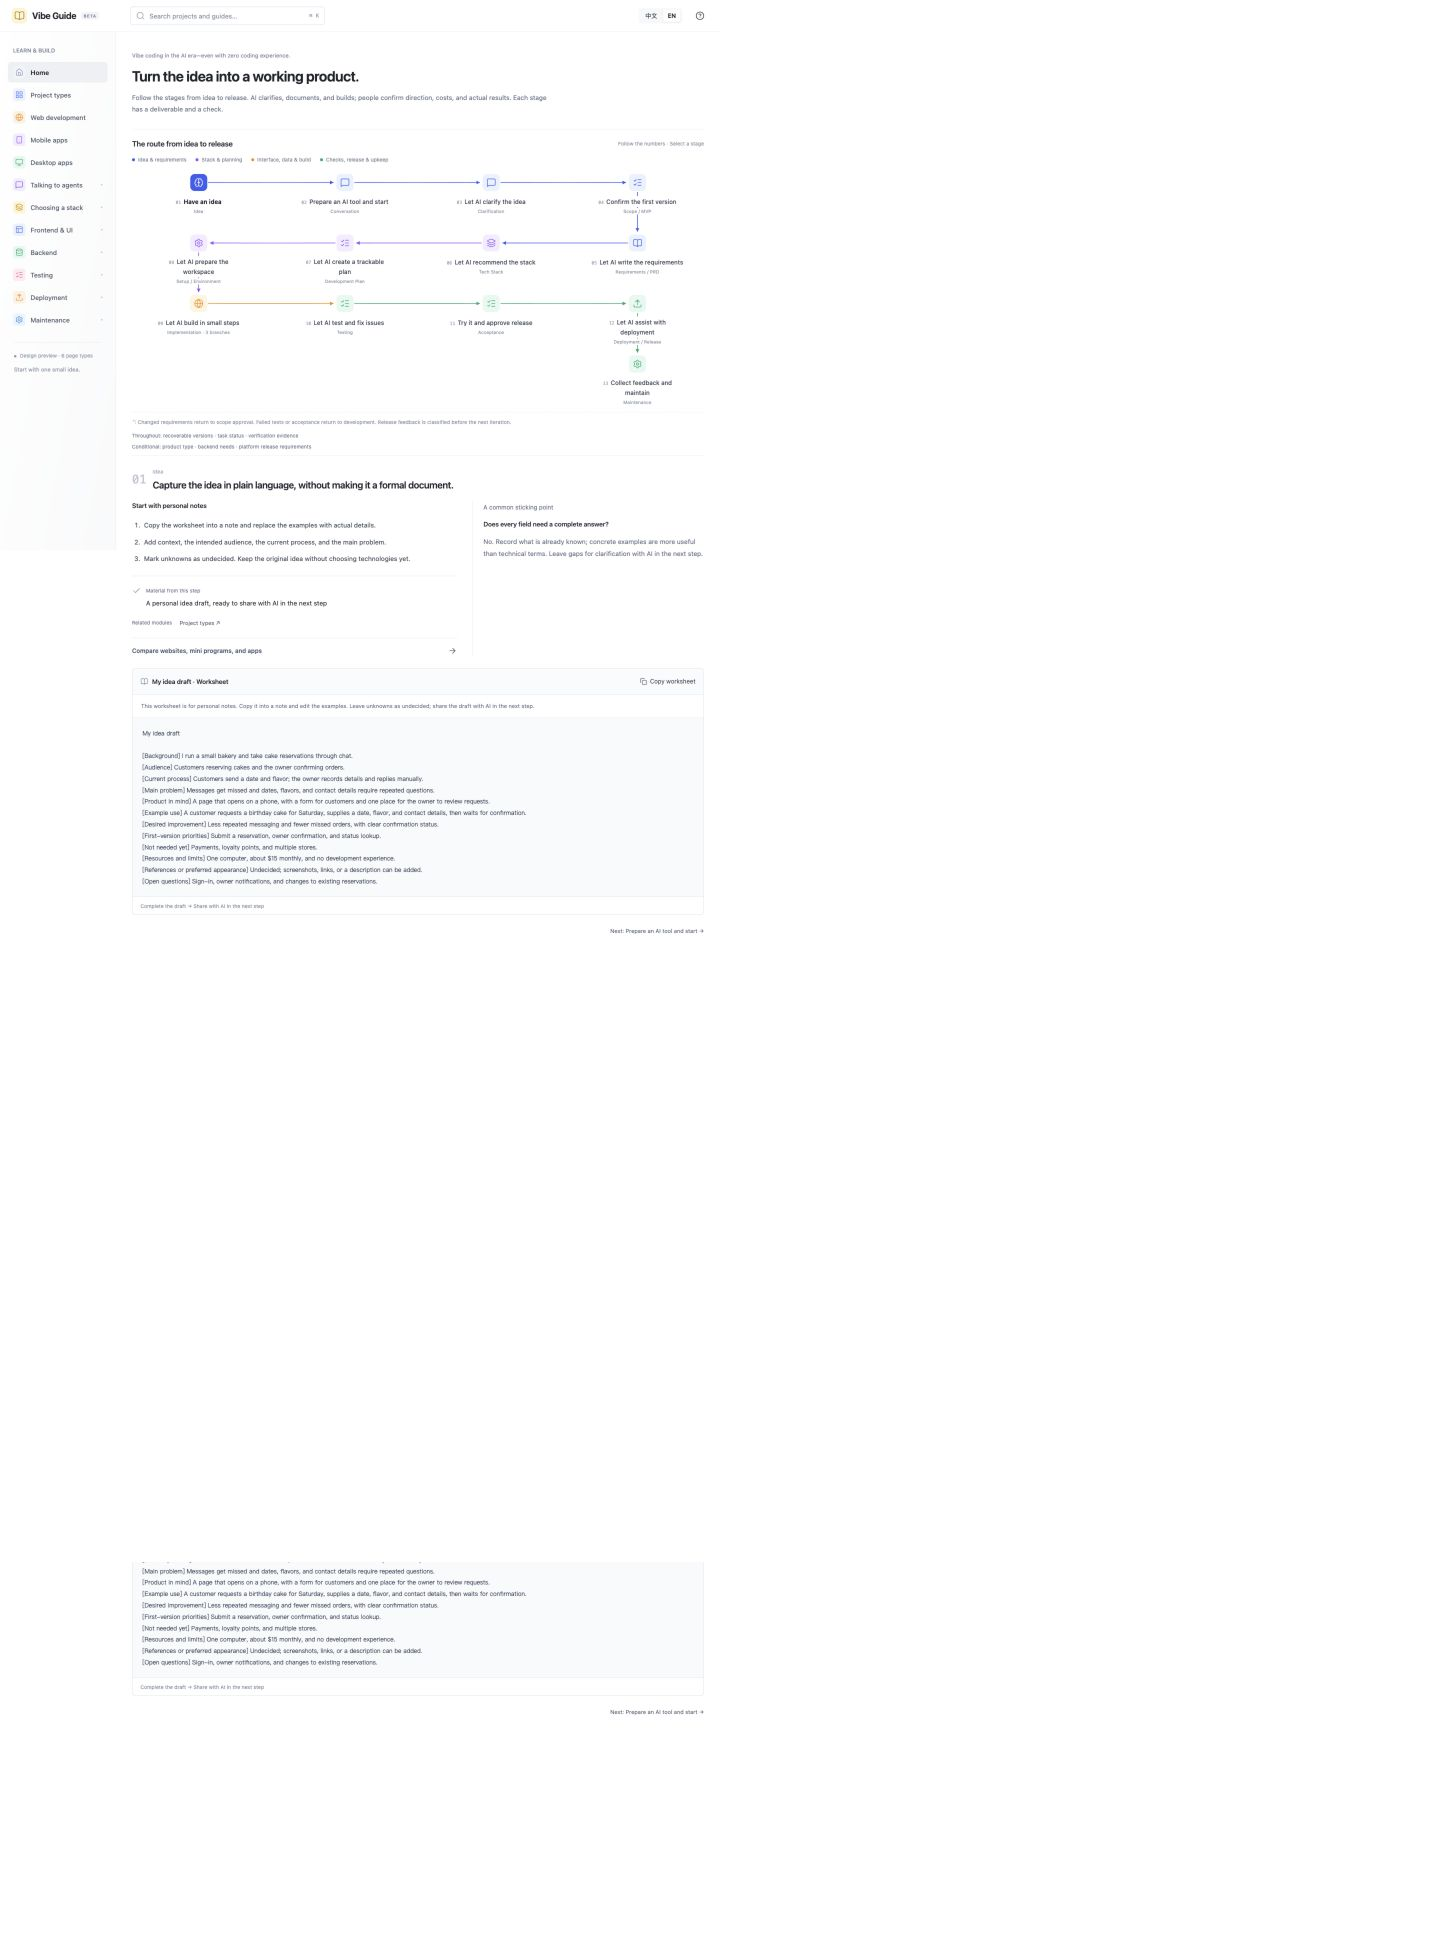
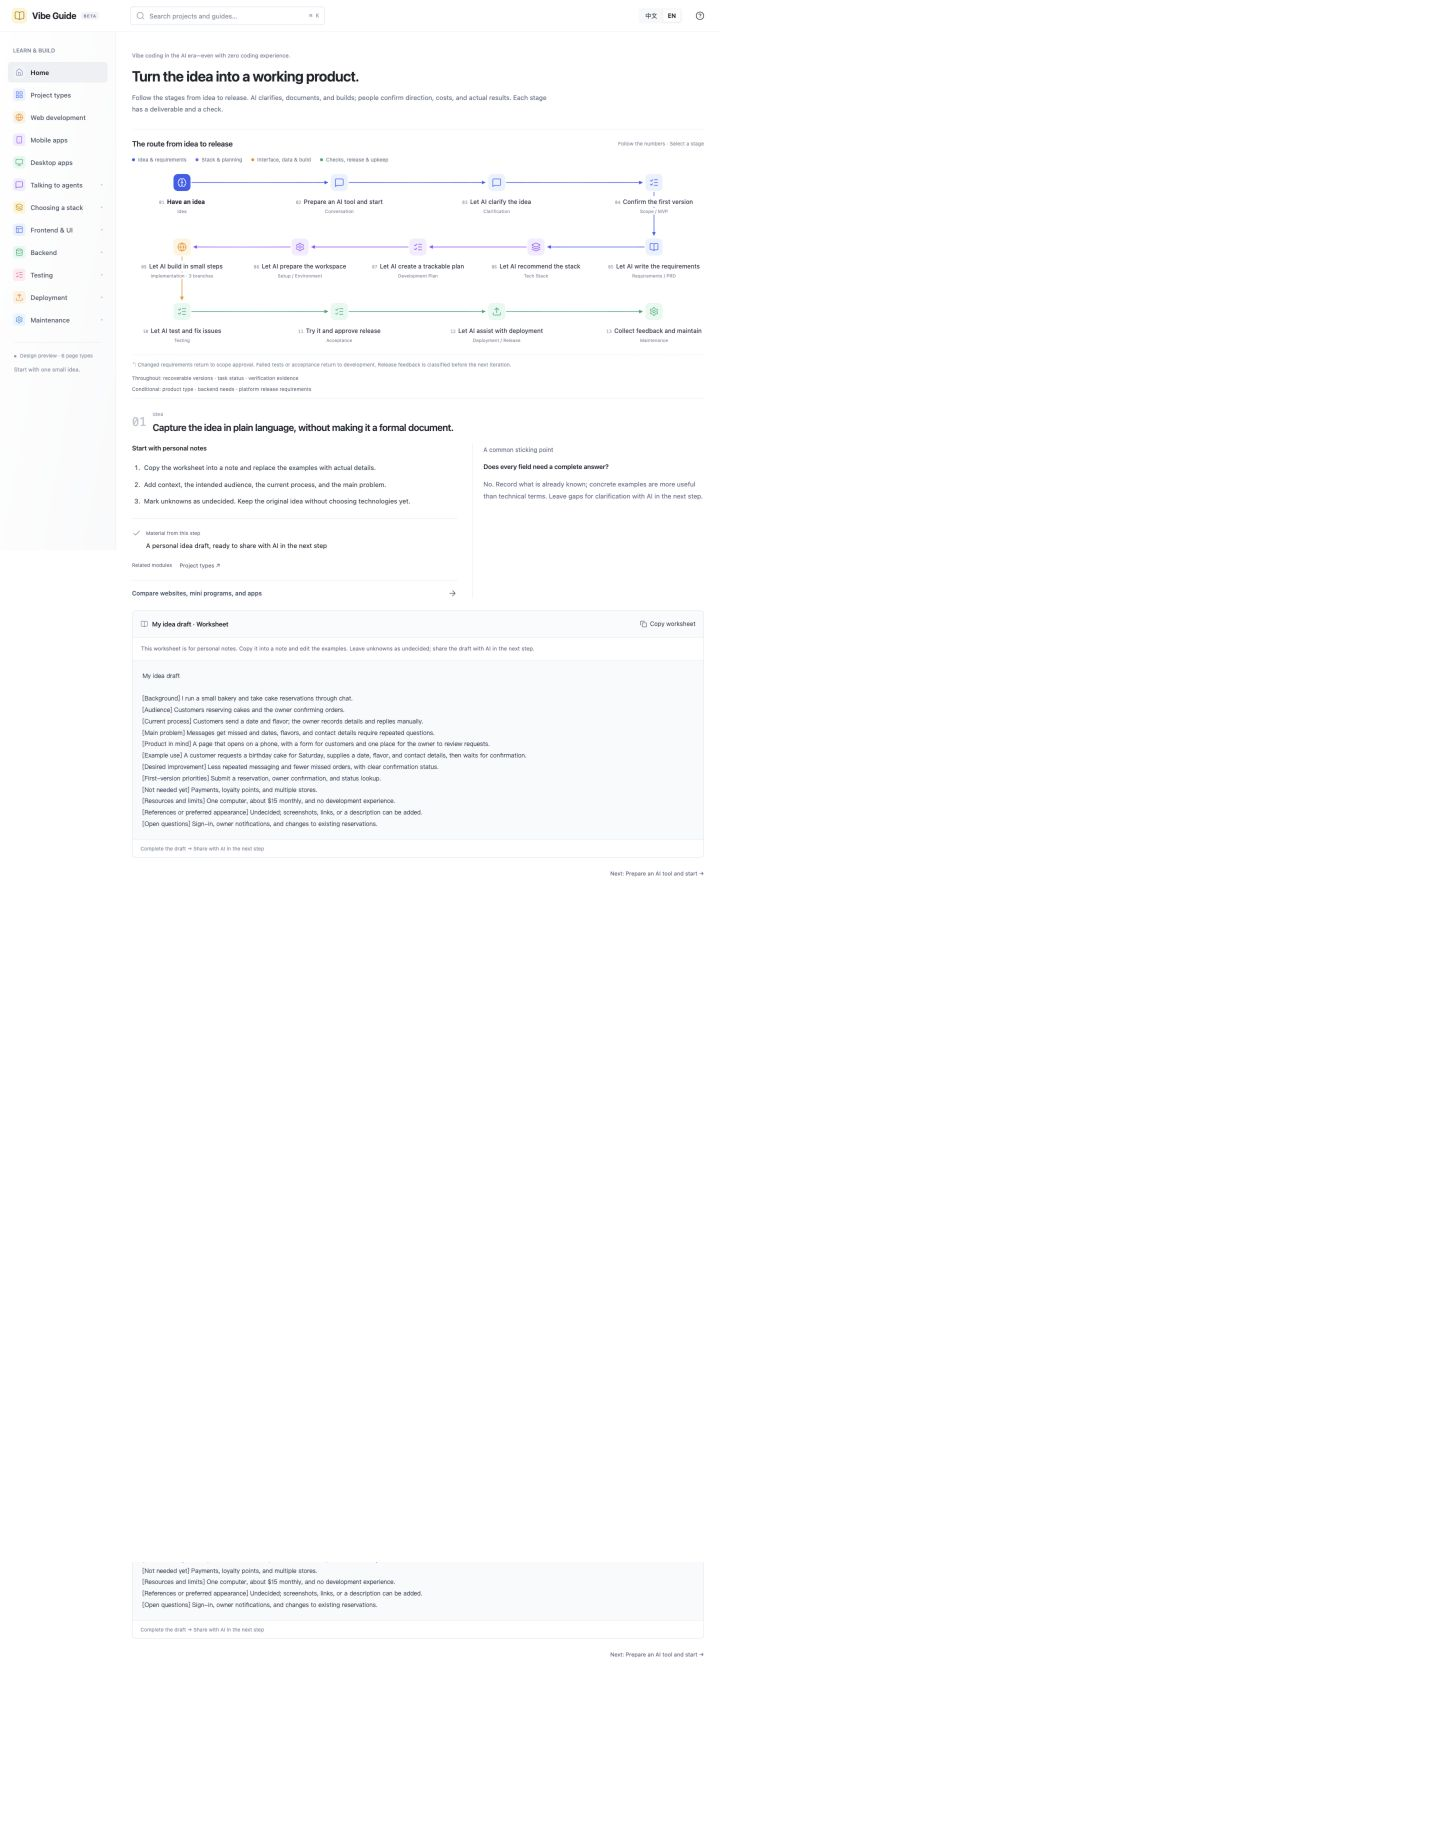
style: balance journey into complete responsive rows

diff --git a/src/styles/refinement.css b/src/styles/refinement.css
@@ -8,3 +8,5 @@
 .prompt-template{margin-top:25px;border:1px solid #e3e7ed;border-radius:7px;overflow:hidden;background:#fff}.template-toolbar{display:flex;gap:16px;align-items:center;justify-content:space-between;padding:12px 16px;border-bottom:1px solid #e8ebef;background:#fafbfc}.template-toolbar h3{display:flex;align-items:center;gap:8px;font-size:13px;font-weight:550;line-height:1.6}.template-toolbar h3 svg{color:#71809a}.template-copy{display:flex;align-items:center;gap:6px;white-space:nowrap;font-size:12px;color:#374151;padding:4px 0}.template-copy:hover{color:#2563eb}.template-instruction{font-size:11px;line-height:1.9;color:#667085;margin:0;padding:12px 17px;border-bottom:1px solid #edf0f3}.prompt-template pre{margin:0;padding:19px 20px;max-height:480px;overflow:auto;background:#f8fafc;white-space:pre-wrap;overflow-wrap:anywhere;tab-size:2;line-height:1.9;font-size:12px;color:#344054;font-family:ui-monospace,SFMono-Regular,Consolas,"PingFang SC","Microsoft YaHei",monospace}.prompt-template code{font:inherit}.template-footer{display:flex;align-items:center;justify-content:space-between;gap:12px;padding:9px 16px;border-top:1px solid #e8ebef;color:#8590a0;font-size:10px;min-height:36px}.template-footer [role=status]{color:#13845d}.prompt-template pre:focus-visible{outline:2px solid #758caf;outline-offset:-2px}@media(max-width:639px){.template-toolbar{align-items:flex-start;gap:9px;padding:12px}.template-toolbar h3{font-size:12px}.template-copy{font-size:11px}.prompt-template pre{padding:15px 12px;max-height:420px;font-size:12px}.template-instruction{padding:10px 12px}.template-footer{align-items:flex-start;flex-direction:column;gap:3px;padding:9px 12px}}
 /* Main route and build branches have independent, data-driven ordering. */
 .connected-route .route-nodes{grid-template-rows:repeat(var(--rows),103px)}.connected-route .route-nodes>li:nth-child(n){grid-row:var(--r)!important;grid-column:var(--c)!important}.route-rules{display:flex;flex-direction:column;gap:5px;margin:10px 0 0;font-size:10px;color:#667085}.build-branches{display:flex;gap:10px 19px;flex-wrap:wrap;margin:0 0 24px;padding:13px 0;border-block:1px solid #e8ebef}.build-branches a{font-size:12px;color:#667085}.build-branches a[aria-current]{color:#2563eb;font-weight:600;text-decoration:underline;text-underline-offset:5px}.build-branches p{flex-basis:100%;font-size:11px;color:#8590a0;margin:2px 0}.stage-pagination{flex-wrap:wrap}@media(max-width:639px){.connected-route .route-nodes{grid-template-rows:repeat(var(--mobile-rows),118px)}.connected-route .route-nodes>li:nth-child(n){grid-row:var(--mr)!important;grid-column:var(--mc)!important}.route-rules{font-size:10px;line-height:1.8}}
+/* Balance every desktop row; spacing is geometric, not a time/token estimate. */
+.connected-route .route-nodes{display:block;position:relative;margin:0;min-height:100px}.connected-route .route-nodes>li:nth-child(n){position:absolute;height:auto;grid-area:auto!important}.connected-route .route-node{height:auto;min-height:85px}.connected-route .route-node strong{max-width:100%;box-sizing:border-box}.connected-route .route-node small{max-width:100%}.connected-route.route-vertical .route-node{display:grid;grid-template-columns:34px minmax(0,1fr);column-gap:15px;text-align:left;min-height:54px;align-content:start}.connected-route.route-vertical .node-index{grid-column:1;grid-row:1/3;margin:0}.connected-route.route-vertical .route-node strong{grid-column:2;grid-row:1;font-size:12px;justify-self:start;padding:0;align-self:start}.connected-route.route-vertical .route-node small{grid-column:2;grid-row:2;justify-self:start;margin:4px 0 0;font-size:10px;padding:0}

diff --git a/docs/preview-review.md b/docs/preview-review.md
@@ -68,3 +68,7 @@
 补齐工具准备、范围确认、环境准备与人工验收。主图按数据计算连线和行列，不再假定固定十二节点。开发节点下包含界面、数据权限和完整流程，保留旧分支锚点。
 
 验证：类型检查无错误/警告，构建通过；内部链接、禁用文案、板块覆盖、模板结构、分支父级和关键节点顺序检查通过。浏览器确认 13 节点/12 连线，开发分支可进入且主图选中开发，中英切换保留后端分支；验收模板复制反馈成功；320px 英文环境节点无整页横向溢出。中英首页和手机截图已更新，[开发分支效果](previews/build-branches-zh.png)单独保存。未进行真实新手项目端到端试用。
+
+## 均衡分行修订
+
+消除 4/4/4/1 的孤立末行，按容器宽度采用三行 4/5/4 或四行 4/3/3/3，两端对齐；窄屏单列。浏览器验证 1440px 为三行、1024px 为四行、320px 英文为单列，均无整页横向溢出；12 条连线保留。类型、构建、页面规则检查通过。中英首页、手机和 [四行效果](previews/journey-four-rows.png) 已保存。未采集时间/token 实测数据，节点距离仅用于排版。

diff --git a/docs/journey-coverage.md b/docs/journey-coverage.md
@@ -38,6 +38,6 @@
 
 ## 表达与可视化
 
-全站发布中文禁用 U+4F60，英文采用中性动作表达。蓝色为想法/需求，紫色为选型/计划/环境，橙色为开发，绿色为测试/验收/上线/维护。图标、编号与箭头共同表达顺序；节点数量变化后按数据自动计算桌面四列和手机两列布局。选中节点无外圈。
+全站发布中文禁用 U+4F60，英文采用中性动作表达。蓝色为想法/需求，紫色为选型/计划/环境，橙色为开发，绿色为测试/验收/上线/维护。图标、编号与箭头共同表达顺序；按实际容器宽度均衡分行：宽屏三行 4/5/4，较窄屏四行 4/3/3/3；每行两端对齐、间距与实际文字高度动态计算。窄屏为单列连续路线。距离不代表时间或 token 成本。选中节点无外圈。
 
 模板保留具体示例、输入要求与输出约束。第一站是自行填写的草稿，第二站才附带 AI 沟通指令。构建验证覆盖文案、链接、模块映射、分支父级与关键节点顺序。
